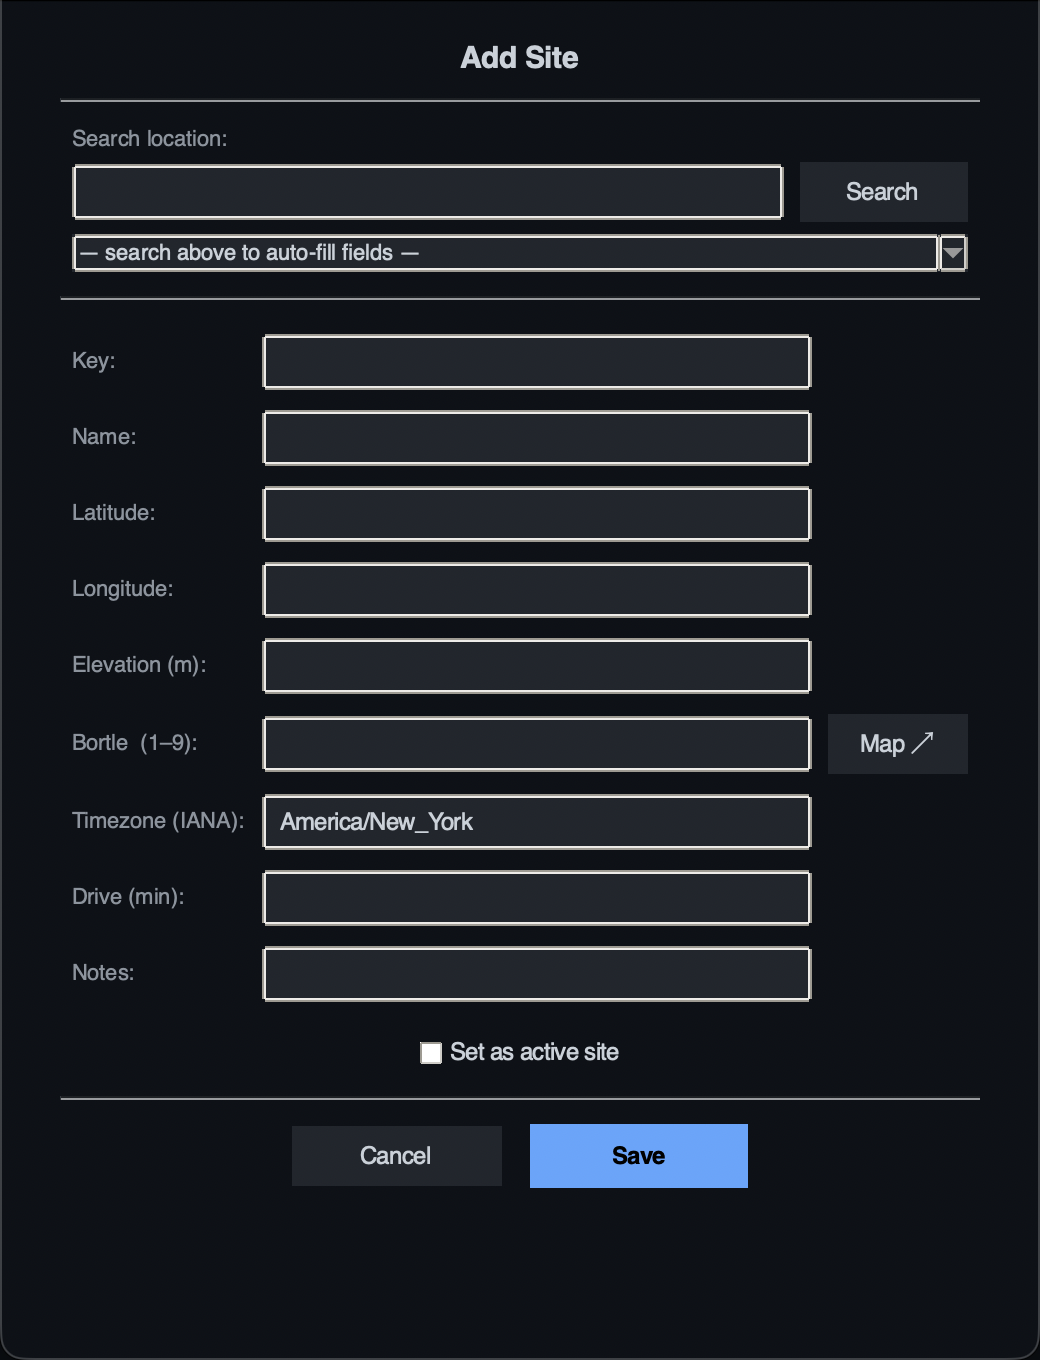
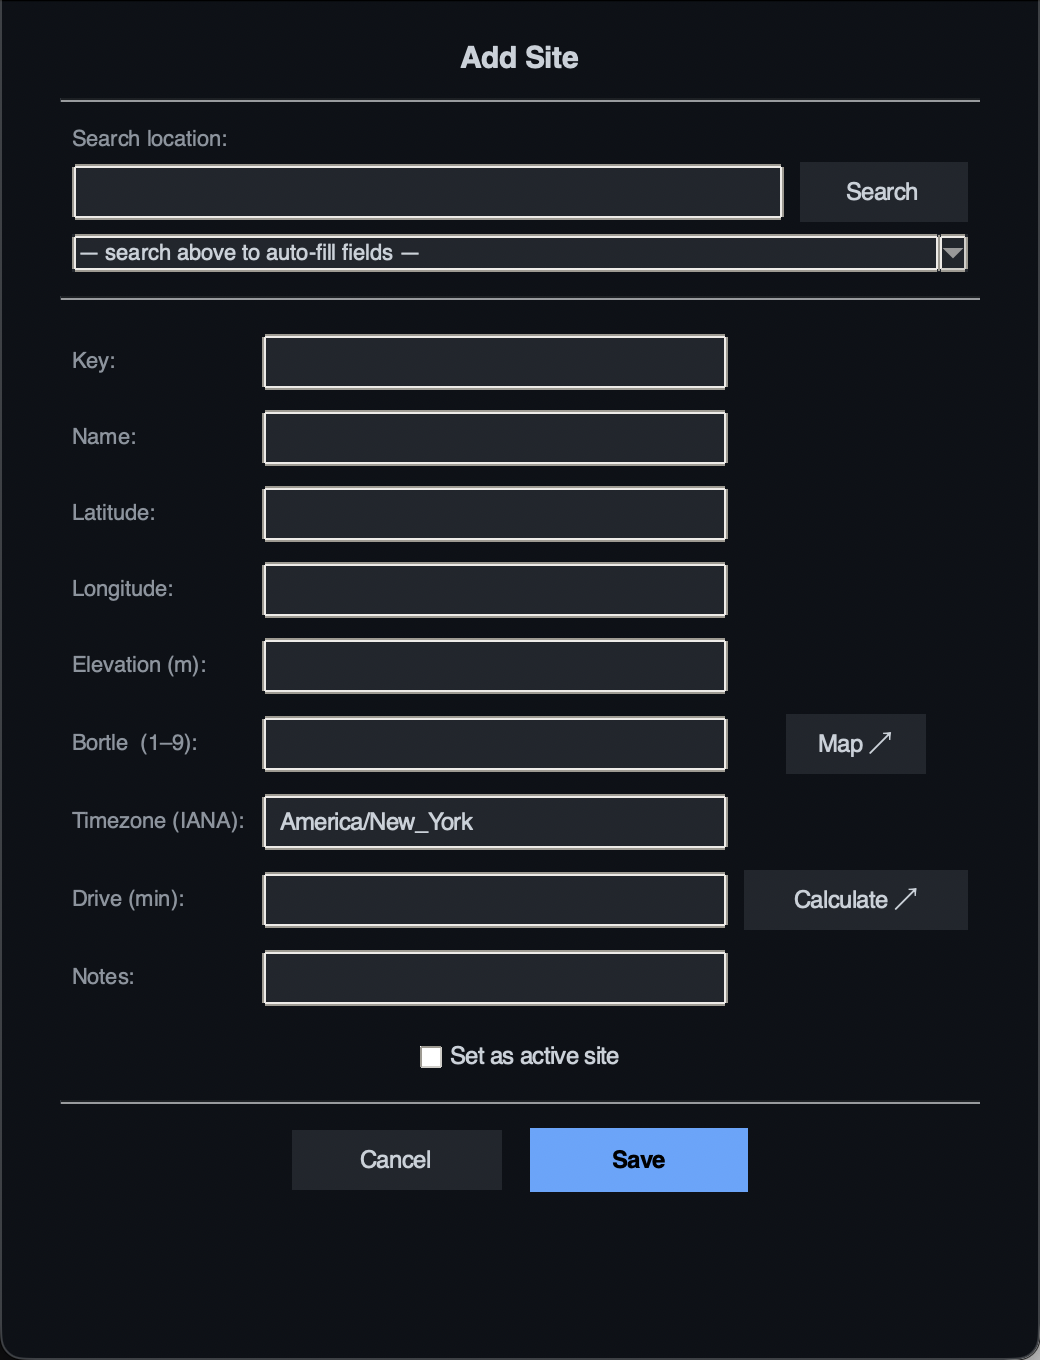
Update screenshots: add Settings tab, refresh all tabs
Retook all 5 screenshots to reflect current UI:
- dashboard.png, sites.png, schedule.png: refreshed
- settings.png: new — shows Gmail credentials + Home Location sections
- add_site_dialog.png: refreshed — now shows Calculate button for drive time

Added settings.png to README GUI section.
Updated take_screenshots.py to capture Settings tab (index 3) and use
a dedicated screencap_window() helper for the dialog.

diff --git a/take_screenshots.py b/take_screenshots.py
@@ -27,13 +27,24 @@ def screencap(filename: str, app: tk.Tk):
     print(f"  saved {path}")
 
 
+def screencap_window(filename: str, win: tk.Toplevel):
+    win.update_idletasks()
+    x = win.winfo_rootx()
+    y = win.winfo_rooty()
+    w = win.winfo_width()
+    h = win.winfo_height()
+    path = str(OUT / filename)
+    subprocess.run(["screencapture", "-x", "-R", f"{x},{y},{w},{h}", path])
+    print(f"  saved {path}")
+
+
 def run():
     app = gui.AstroAlertApp()
     app.lift()
     app.focus_force()
 
     def step1():
-        # Dashboard — run a dry-run first so there's output
+        # Dashboard — run a dry-run so there's output to show
         app._night_var.set("tonight")
         app._dry_run_var.set(True)
         app._start_forecast()
@@ -41,7 +52,7 @@ def run():
 
     def _wait_for_forecast(callback, max_ms=30000, interval=500):
         if str(app._run_btn.cget("state")) != "disabled":
-            app.after(300, callback)  # small extra pause so output renders
+            app.after(300, callback)
         elif max_ms <= 0:
             app.after(0, callback)
         else:
@@ -49,33 +60,27 @@ def run():
 
     def step2():
         screencap("dashboard.png", app)
-        # Switch to Sites tab
-        app._nb.select(1)
+        app._nb.select(1)           # Sites tab
         app.after(500, step3)
 
     def step3():
         screencap("sites.png", app)
-        # Switch to Schedule tab
-        app._nb.select(2)
+        app._nb.select(2)           # Schedule tab
         app.after(600, step4)
 
     def step4():
         screencap("schedule.png", app)
+        app._nb.select(3)           # Settings tab
+        app.after(600, step5)
+
+    def step5():
+        screencap("settings.png", app)
         # Open Add Site dialog
         dlg = gui.SiteDialog(app, title="Add Site")
-        app.after(400, lambda: step5(dlg))
+        app.after(400, lambda: step6(dlg))
 
-    def step5(dlg):
-        screencap("add_site.png", app)  # capture main window with dialog on top
-        # Also capture just the dialog
-        dlg.update_idletasks()
-        x = dlg.winfo_rootx()
-        y = dlg.winfo_rooty()
-        w = dlg.winfo_width()
-        h = dlg.winfo_height()
-        path = str(OUT / "add_site_dialog.png")
-        subprocess.run(["screencapture", "-x", "-R", f"{x},{y},{w},{h}", path])
-        print(f"  saved {path}")
+    def step6(dlg):
+        screencap_window("add_site_dialog.png", dlg)
         dlg.destroy()
         app.after(300, app.destroy)
 

diff --git a/README.md b/README.md
@@ -32,6 +32,8 @@ python3 gui.py
 
 **Settings** — enter your Gmail address and App Password. Also set your **Home Location** (address search with autocomplete) — this becomes the starting point for automatic drive-time calculations. Credentials and home location are saved to your OS user data directory (never next to the source files).
 
+![Settings](screenshots/settings.png)
+
 ## Packaged app (no Python required)
 
 You can build a self-contained app from source with one command. The result runs on any machine of the same OS — no Python installation needed.
